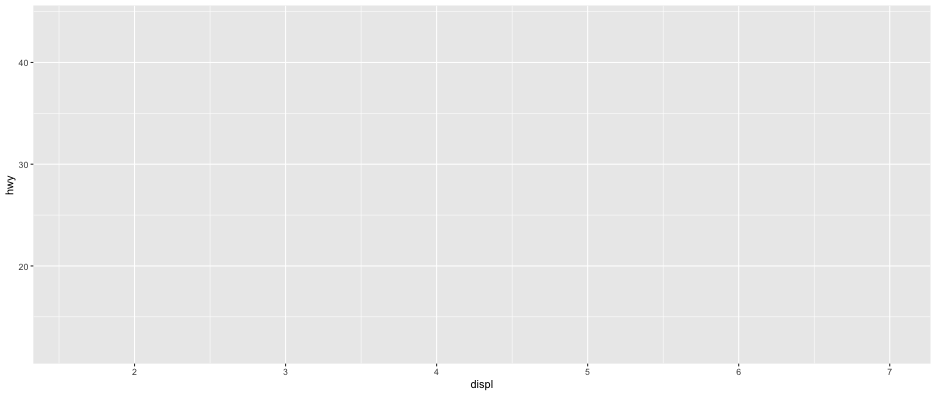
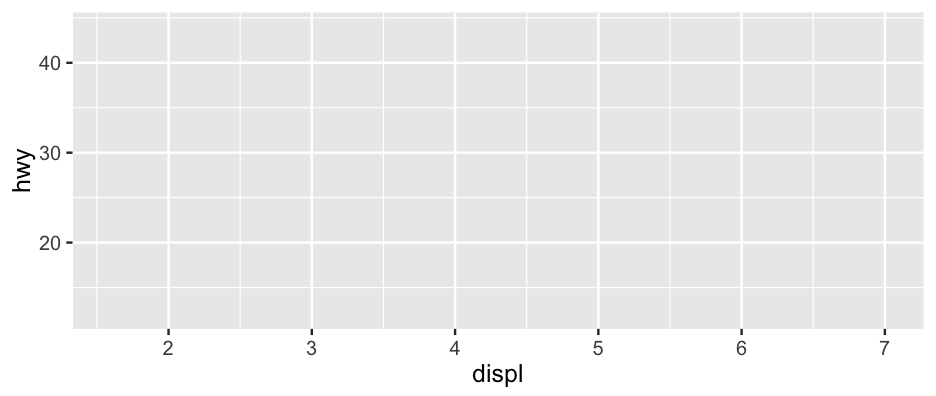
Made ggplot base_size bigger

diff --git a/content/vita/ds/ds1-slides/w2p1/index.html b/content/vita/ds/ds1-slides/w2p1/index.html
@@ -49,7 +49,7 @@ Today, we'll primarily be covering the basics of the *ggplot2* package.
 (It's no longer there, but if you want access to it let me know)
 
 ---
-##Other resources
+# Other resources
 The *ggplot2* package is one of the most popular R packages. There are a plethora of resources to learn the syntax. 
 
 * Perhaps the most definitive, and indexes all the capabilities of ggplot2, along with multiple examples 

diff --git a/public/vita/ds/ds1-slides/w2p1/index.html b/public/vita/ds/ds1-slides/w2p1/index.html
@@ -49,7 +49,7 @@ Today, we'll primarily be covering the basics of the *ggplot2* package.
 (It's no longer there, but if you want access to it let me know)
 
 ---
-##Other resources
+# Other resources
 The *ggplot2* package is one of the most popular R packages. There are a plethora of resources to learn the syntax. 
 
 * Perhaps the most definitive, and indexes all the capabilities of ggplot2, along with multiple examples 
